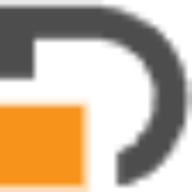
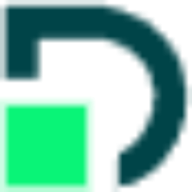
Change theme

diff --git a/src/styles/global.scss b/src/styles/global.scss
@@ -34,7 +34,7 @@ button {
   box-sizing: border-box;
   color: var(--primary-button-text-color);
   cursor: pointer;
-  font-size: 0.875em;
+  font-size: 1rem;
   padding: 8px 16px;
   transition: box-shadow 150ms cubic-bezier(0.4, 0, 0.2, 1);
   user-select: none;
@@ -50,7 +50,7 @@ details {
   transition-property: all;
   transition-timing-function: cubic-bezier(0.4, 0, 0.2, 1);
   transition-duration: 150ms;
-padding: 1rem 0;
+  padding: 1rem 0;
 
   summary {
     position: relative;
@@ -62,15 +62,15 @@ padding: 1rem 0;
 
     &:before {
       content: '';
-      border-width: .4rem;
+      border-width: 0.4rem;
       border-style: solid;
       border-color: transparent transparent transparent #000;
       position: absolute;
       top: 1.3rem;
       right: 1rem;
       transform: rotate(0);
-      transform-origin: .2rem 50%;
-      transition: .25s transform ease;
+      transform-origin: 0.2rem 50%;
+      transition: 0.25s transform ease;
     }
   }
 

diff --git a/src/routes/Home.module.scss b/src/routes/Home.module.scss
@@ -6,18 +6,18 @@
 
 .hero {
   position: relative;
-  padding: 8rem 0;
+  padding: 1rem 0 8rem 0;
   isolation: isolate;
 
-figure {
-  width: 100%;
-  img {
-    width: inherit;
+  figure {
+    width: 100%;
+    img {
+      width: inherit;
+    }
   }
-}
 
   h1 {
-    font-size:  calc(3rem + 0.4vw);
+    font-size: calc(3rem + 0.4vw);
     text-wrap: balance;
     font-family: 'Libre Franklin';
     font-weight: 900;
@@ -30,8 +30,8 @@ figure {
     max-width: 450px;
     text-wrap: balance;
     line-height: 1.8rem;
-    font-weight: 300;
-    font-size: calc(1rem + 0.2vw);
+    font-weight: 400;
+    font-size: calc(1rem + 0.3vw);
 
     @include small-down() {
       font-size: 2.5vw;

diff --git a/src/styles/abstract/_variables.scss b/src/styles/abstract/_variables.scss
@@ -166,7 +166,7 @@
   --gm-neutral-outline-color: #dadce0;
 
   --color-black: #161823;
-  --color-primary: #F7931A;
+  --color-primary: #09F477;
   --color-secondary: #00e7ff;
   --color-tertiary: #fdc5ec;
 
